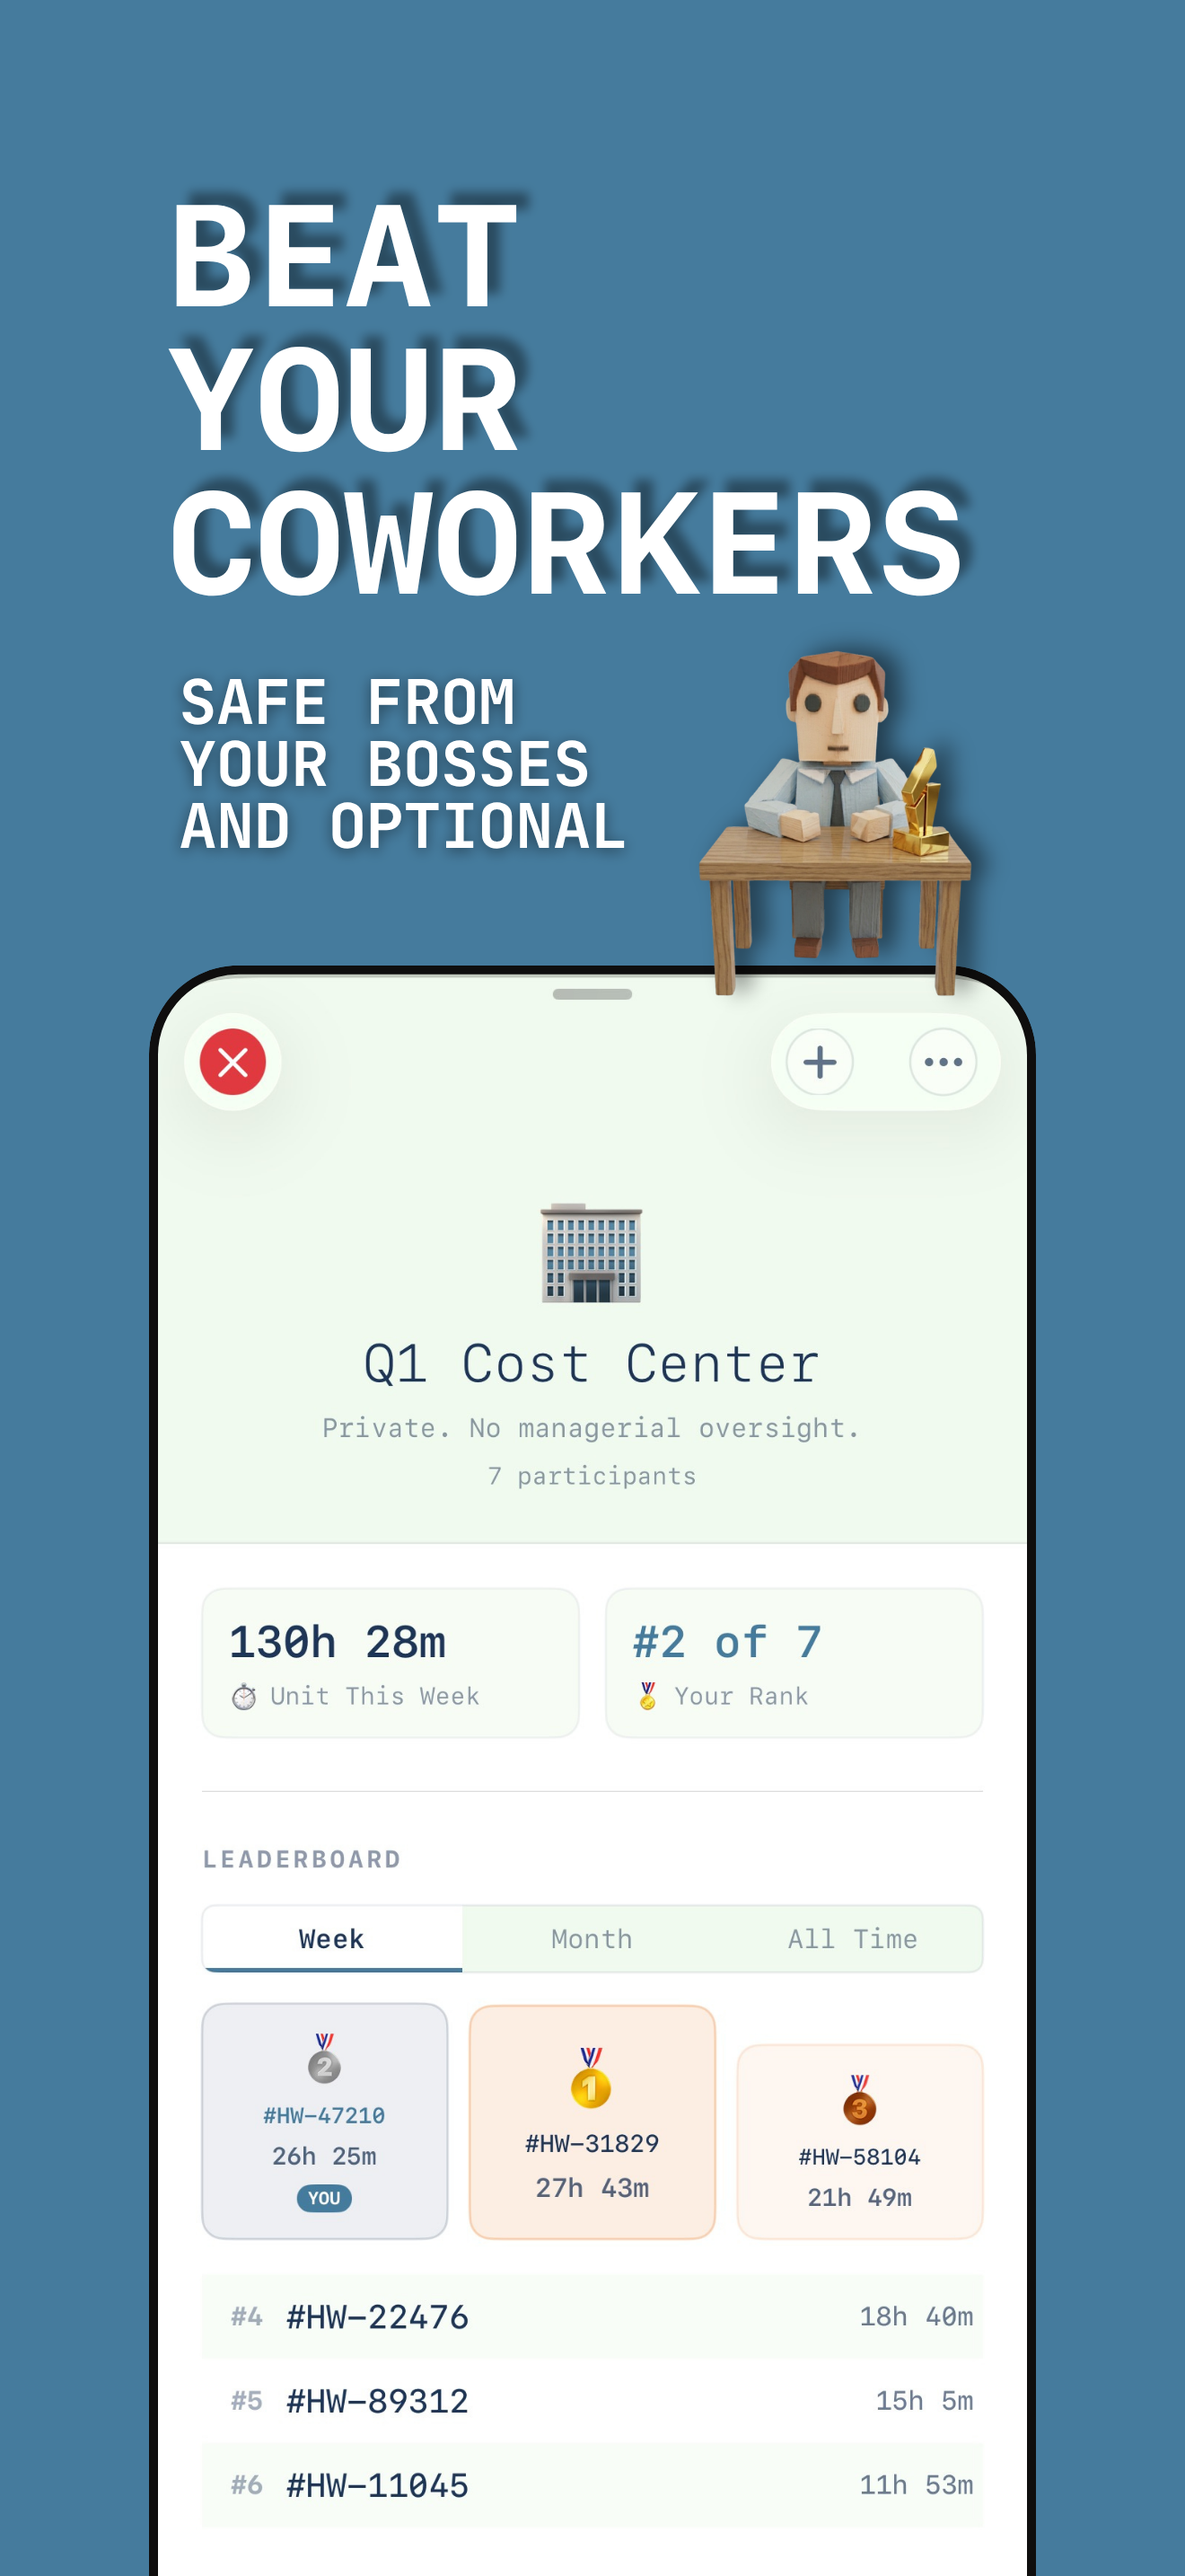
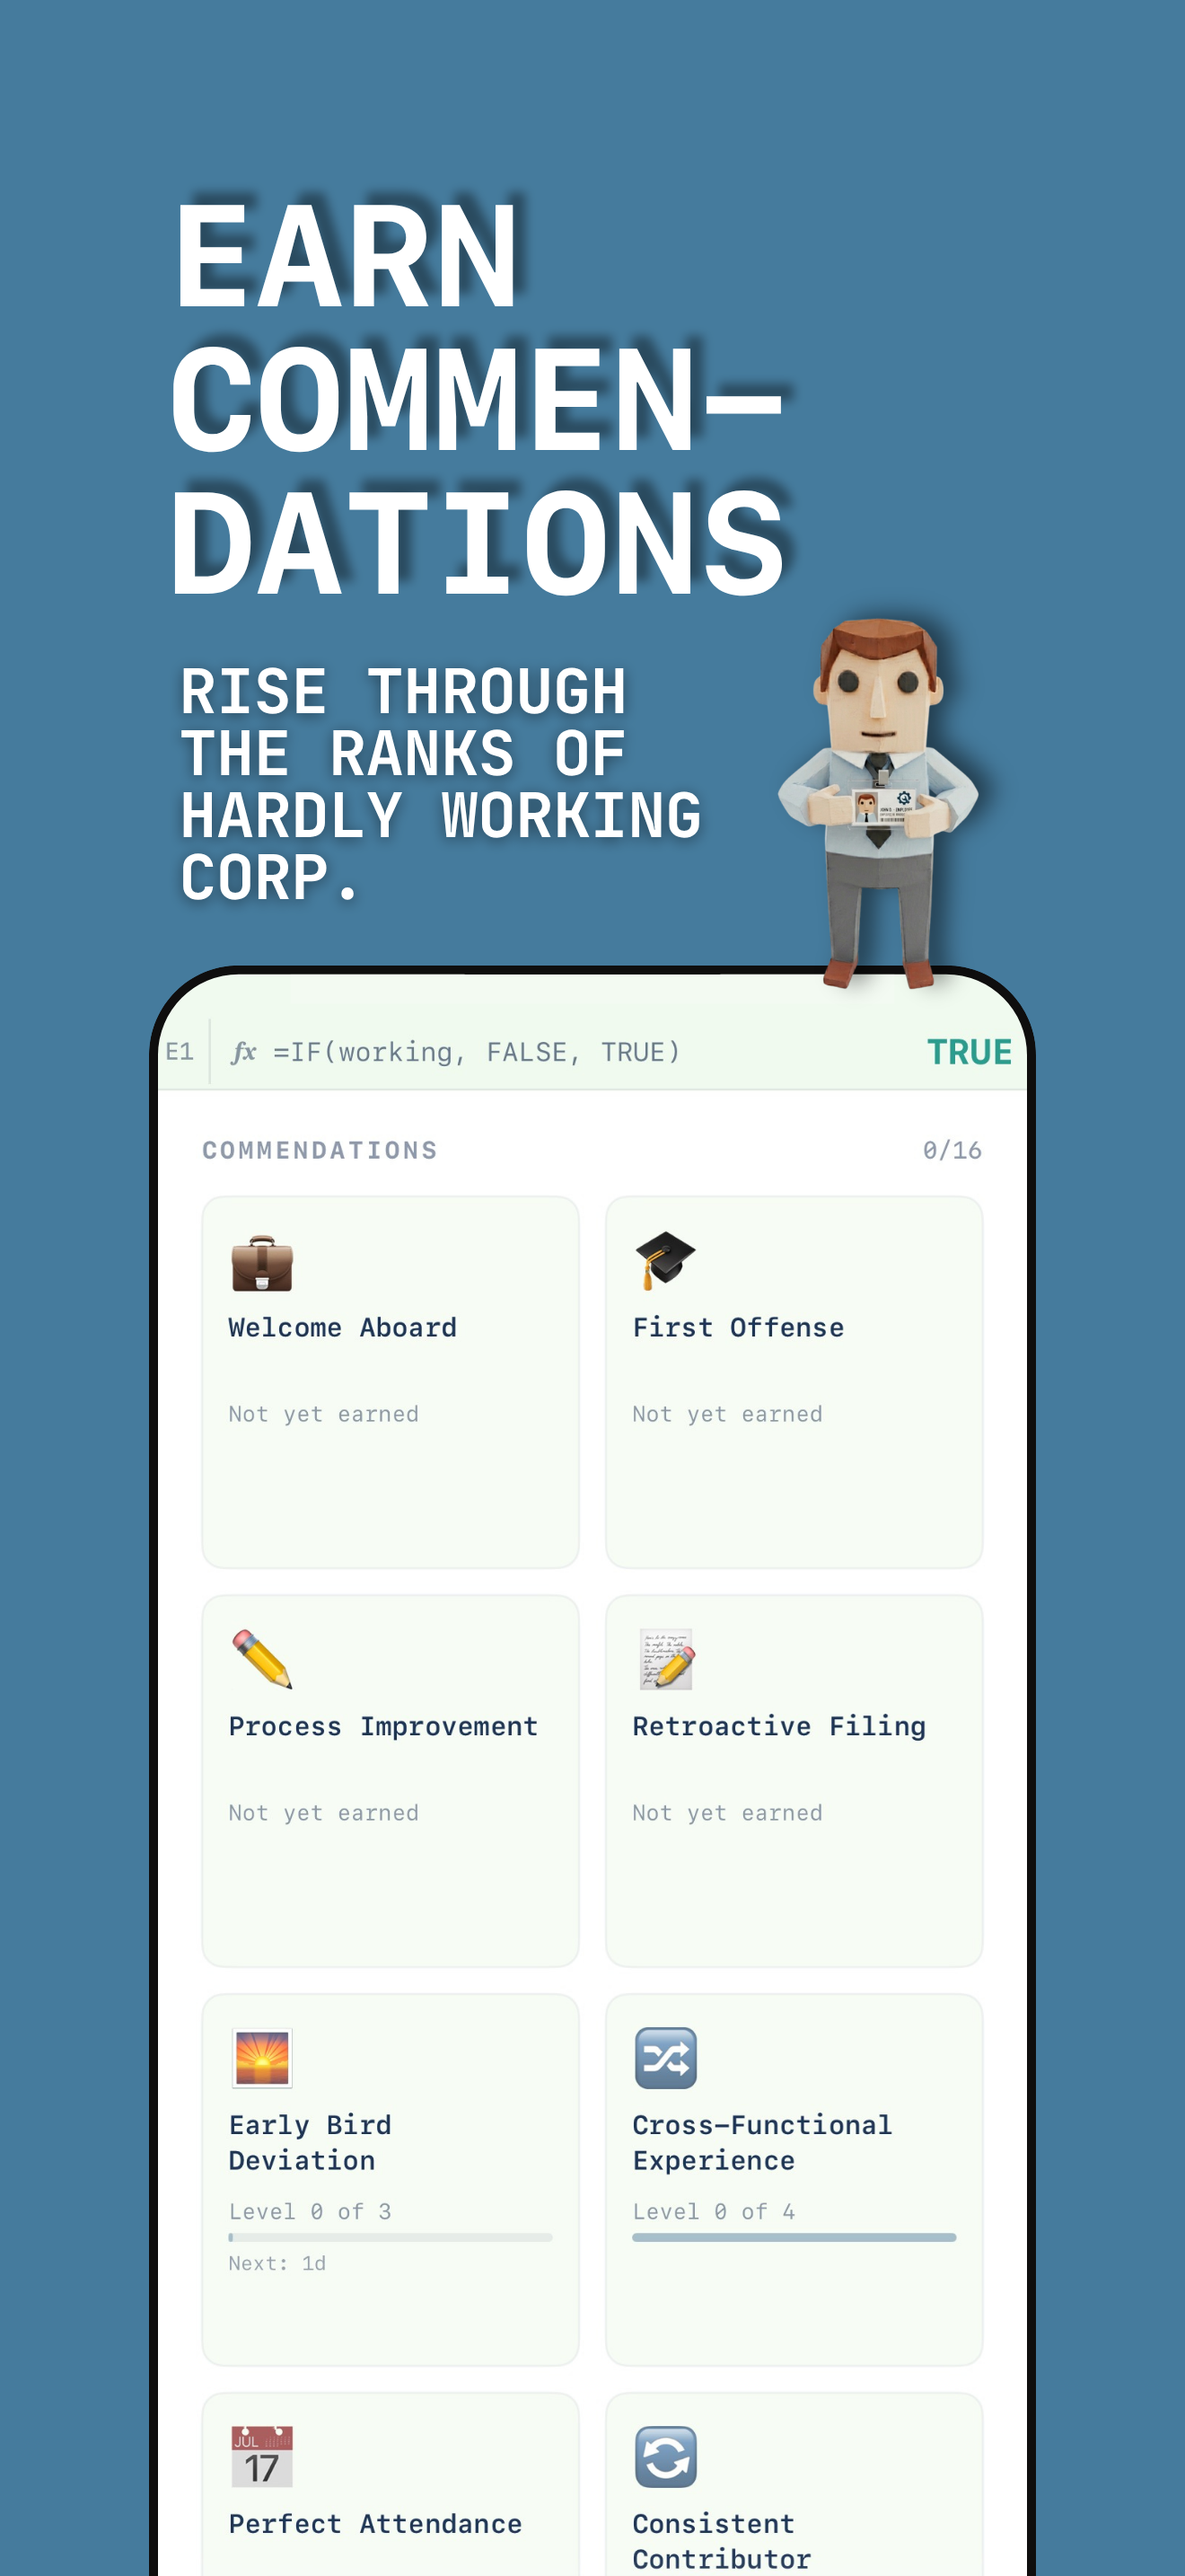
Landing page polish: prices, nav stutter, screenshots, stale AppsFlyer
Pricing (Pricing.tsx, page.tsx JSON-LD, llms.txt): weekly $4.99 -> $2.99,
annual $39.99 -> $24.99. Brings the landing page in line with the actual
subscription prices shipped in v1.1.0.

Navbar (Navbar.tsx, globals.css): drop Framer Motion initial animation
and use a CSS keyframe instead. The SSR HTML was rendering the nav at
its final position, then on hydration Framer Motion snapped it to
y:-20/opacity:0 before animating down, producing a visible clip/stutter
on first paint. CSS keyframes apply from frame 0 identically server and
client, so there is no hydration flip. Also scoped the scroll-state
transition to background/border/shadow so the entrance transform cannot
be intercepted by the transition-all.

Screenshots (public/screenshots/*.png, Features.tsx): new screenshots
for the Employee Toolkit gallery, plus a reorder. New slot order:
- 2 Break Timer (unchanged)
- 3 Performance Dashboard (was 7)
- 4 Employee Commendations (was 5)
- 5 Personnel File (was 6)
- 6 Industry Benchmarks (was 3)
- 7 Reclamation Units (was 4)
Copy (title, formula, dept, description, alt) moves with each slot so
it matches the image. Filenames stay 2-7.png.

Stale AppsFlyer (llms.txt, humans.txt): both files still claimed the
app used AppsFlyer for attribution. Replaced with an accurate
"no attribution SDK, no ATT prompt" statement to match the Privacy
Policy and Terms pages already fixed in prior commits.

diff --git a/components/Features.tsx b/components/Features.tsx
@@ -28,25 +28,17 @@ const features: Feature[] = [
   {
     image: "/screenshots/3.png",
     imageAlt:
-      "Country and industry rankings screen showing global slacking benchmarks",
-    formula: "=PERCENTILE(you, everyone)",
-    dept: "DEPT. OF COMPETITIVE ANALYSIS",
-    title: "Industry Benchmarks",
+      "Career performance dashboard showing day, week, month, year, and lifetime reports",
+    formula: "=SUM(career_reclaimed)",
+    dept: "DEPT. OF ANALYTICS",
+    title: "Performance Dashboard",
     description:
-      "Compare your reclamation rate against anonymous global data. See which countries slack hardest. See which industries lead in Doom Scrolling. No one is told where you personally rank.",
+      "Day, week, month, year, and lifetime reports. Personal records. Category rankings. Audit findings. Watch your career of strategic underachievement unfold in beautiful charts. Management would ",
+    strikethrough: "not",
+    descriptionSuffix: " be impressed.",
   },
   {
     image: "/screenshots/4.png",
-    imageAlt:
-      "Reclamation Unit leaderboard showing coworkers ranked by reclaimed wages",
-    formula: "=RANK(you, unit)",
-    dept: "DEPT. OF GROUP OPERATIONS",
-    title: "Reclamation Units",
-    description:
-      "Form a private unit with your coworkers. Generate a QR code invite. Run weekly leaderboards. Hold each other accountable through shared professional negligence. Visible only to members.",
-  },
-  {
-    image: "/screenshots/5.png",
     imageAlt: "Employee commendations screen showing achievement tiers",
     formula: "=COUNTA(commendations)",
     dept: "DEPT. OF EMPLOYEE RECOGNITION",
@@ -55,7 +47,7 @@ const features: Feature[] = [
       "Fifteen commendations across five rarity tiers. Awarded automatically for sustained underachievement. Legendary-tier awarded rarely, silently, and without warning. Displayed in your personnel file.",
   },
   {
-    image: "/screenshots/6.png",
+    image: "/screenshots/5.png",
     imageAlt:
       "Personnel dossier screen showing employee ID, clearance level, and reclamation history",
     formula: "=LOOKUP(employee_id)",
@@ -65,16 +57,24 @@ const features: Feature[] = [
       "Your Employee ID is issued on enrollment. Your clearance level is earned through accumulated service. Your full reclamation history is stored locally on your device. HR does not have access.",
   },
   {
+    image: "/screenshots/6.png",
+    imageAlt:
+      "Country and industry rankings screen showing global slacking benchmarks",
+    formula: "=PERCENTILE(you, everyone)",
+    dept: "DEPT. OF COMPETITIVE ANALYSIS",
+    title: "Industry Benchmarks",
+    description:
+      "Compare your reclamation rate against anonymous global data. See which countries slack hardest. See which industries lead in Doom Scrolling. No one is told where you personally rank.",
+  },
+  {
     image: "/screenshots/7.png",
     imageAlt:
-      "Career performance dashboard showing day, week, month, year, and lifetime reports",
-    formula: "=SUM(career_reclaimed)",
-    dept: "DEPT. OF ANALYTICS",
-    title: "Performance Dashboard",
+      "Reclamation Unit leaderboard showing coworkers ranked by reclaimed wages",
+    formula: "=RANK(you, unit)",
+    dept: "DEPT. OF GROUP OPERATIONS",
+    title: "Reclamation Units",
     description:
-      "Day, week, month, year, and lifetime reports. Personal records. Category rankings. Audit findings. Watch your career of strategic underachievement unfold in beautiful charts. Management would ",
-    strikethrough: "not",
-    descriptionSuffix: " be impressed.",
+      "Form a private unit with your coworkers. Generate a QR code invite. Run weekly leaderboards. Hold each other accountable through shared professional negligence. Visible only to members.",
   },
 ];
 

diff --git a/app/page.tsx b/app/page.tsx
@@ -38,14 +38,14 @@ const jsonLd = {
     },
     {
       "@type": "Offer",
-      price: "39.99",
+      price: "24.99",
       priceCurrency: "USD",
       name: "Pro (Executive) — Annual",
       description:
         "Everything in Free plus monthly/yearly/lifetime dashboards, full benchmarks, friend group creation, custom categories, CSV export, premium share cards, exclusive achievements",
       priceSpecification: {
         "@type": "UnitPriceSpecification",
-        price: "39.99",
+        price: "24.99",
         priceCurrency: "USD",
         billingDuration: "P1Y",
         billingIncrement: 1,
@@ -53,12 +53,12 @@ const jsonLd = {
     },
     {
       "@type": "Offer",
-      price: "4.99",
+      price: "2.99",
       priceCurrency: "USD",
       name: "Pro (Executive) — Weekly",
       priceSpecification: {
         "@type": "UnitPriceSpecification",
-        price: "4.99",
+        price: "2.99",
         priceCurrency: "USD",
         billingDuration: "P1W",
         billingIncrement: 1,

diff --git a/components/Navbar.tsx b/components/Navbar.tsx
@@ -1,7 +1,6 @@
 "use client";
 
 import { useEffect, useState } from "react";
-import { motion } from "framer-motion";
 
 const APP_STORE_URL = "https://apps.apple.com/app/id6761917321";
 
@@ -15,11 +14,8 @@ export default function Navbar() {
   }, []);
 
   return (
-    <motion.nav
-      initial={{ y: -20, opacity: 0 }}
-      animate={{ y: 0, opacity: 1 }}
-      transition={{ duration: 0.4 }}
-      className={`fixed top-0 left-0 right-0 z-50 transition-all duration-300 ${
+    <nav
+      className={`nav-slide-in fixed top-0 left-0 right-0 z-50 transition-[background-color,backdrop-filter,border-color,box-shadow] duration-300 ${
         scrolled
           ? "bg-white/90 backdrop-blur-md border-b border-text-primary/[0.06] shadow-sm"
           : "bg-transparent"
@@ -59,6 +55,6 @@ export default function Navbar() {
           </a>
         </div>
       </div>
-    </motion.nav>
+    </nav>
   );
 }

diff --git a/components/Pricing.tsx b/components/Pricing.tsx
@@ -100,7 +100,7 @@ export default function Pricing() {
               </p>
               <div className="flex items-baseline gap-2">
                 <p className="text-3xl font-light text-text-primary">
-                  $39.99
+                  $24.99
                 </p>
                 <p className="font-mono text-xs text-text-primary/50">
                   /year
@@ -137,7 +137,7 @@ export default function Pricing() {
             </a>
 
             <p className="font-mono text-[10px] text-text-primary/50 text-center mt-3">
-              Also available: $4.99/week (no trial period)
+              Also available: $2.99/week (no trial period)
             </p>
           </motion.div>
         </div>

diff --git a/app/globals.css b/app/globals.css
@@ -75,3 +75,21 @@ html {
 ::selection {
   background: rgba(69, 123, 157, 0.2);
 }
+
+/* Navbar entrance — CSS keyframe so SSR and client render identically
+   (Framer Motion's post-hydration initial snap caused a brief clip). */
+@keyframes nav-slide-in {
+  from {
+    transform: translateY(-100%);
+    opacity: 0;
+  }
+  to {
+    transform: translateY(0);
+    opacity: 1;
+  }
+}
+
+.nav-slide-in {
+  animation: nav-slide-in 0.4s ease-out both;
+  will-change: transform, opacity;
+}
